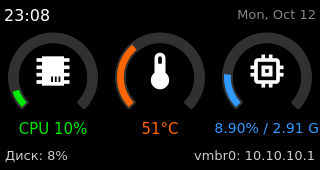
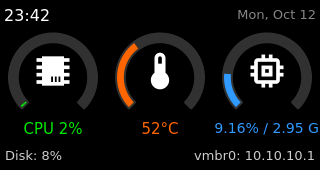
on-screen text translation

diff --git a/portrait_dashboard.gen.py b/portrait_dashboard.gen.py
@@ -10,7 +10,7 @@ def text(g,val,fmt,font,color,align,rect,refresh,sensor=True):
 text(1,"clock","{0}","bold 26px Arial","#ffffff","center",(0,4,170,28),5000)
 text(1,"calendar","{5}, {7} {2}","13px Arial","#878787","center",(0,32,170,16),30000)
 rows=[("cpu_usage","{0}","chip","#00e600","CPU","{0}%",1000),
-      ("cpu_temp","{0}","thermometer","#ff6600","Температура","{0}°C",1000),
+      ("cpu_temp","{0}","thermometer","#ff6600","CPU Temp","{0}°C",1000),
       ("memory","{2}","memory","#3399ff","RAM {14}","{2}%",2000)]
 y=56
 for i,(s,dfmt,icon,col,label,val,ref) in enumerate(rows):
@@ -22,7 +22,7 @@ for i,(s,dfmt,icon,col,label,val,ref) in enumerate(rows):
     y+=66
 # y = 254
 add(5,"iconify",(6,y+2,20,20),sensor=False,value="harddisk",iconSet="mdi",color="#cccccc",refresh=0)
-text(5,"space_root","Диск: {4}%","14px Arial","#cccccc","left",(32,y+3,136,19),10000)
+text(5,"space_root","Disk: {4}%","14px Arial","#cccccc","left",(32,y+3,136,19),10000)
 y+=30
 add(6,"iconify",(6,y+2,20,20),sensor=False,value="lan",iconSet="mdi",color="#cccccc",refresh=0)
 text(6,"network_vmbr0","{0}: {17}","14px Arial","#cccccc","left",(32,y+3,136,19),10000)

diff --git a/README.md b/README.md
@@ -62,8 +62,6 @@ Running it again is safe.
   the editor does not re-read the widget list by itself.
 - The network interface is `vmbr0`. If yours is named differently, change `network_vmbr0` in the theme
   and `interface` in `config.json`.
-- Labels in the portrait layout are in Russian («Температура», «Диск»). Edit them in the theme
-  or in `portrait_dashboard.gen.py`.
 - Updating s1panel from its repository overwrites `api.js` and `iconify.js` — run `install.sh` again after an update.
 
 ## License
